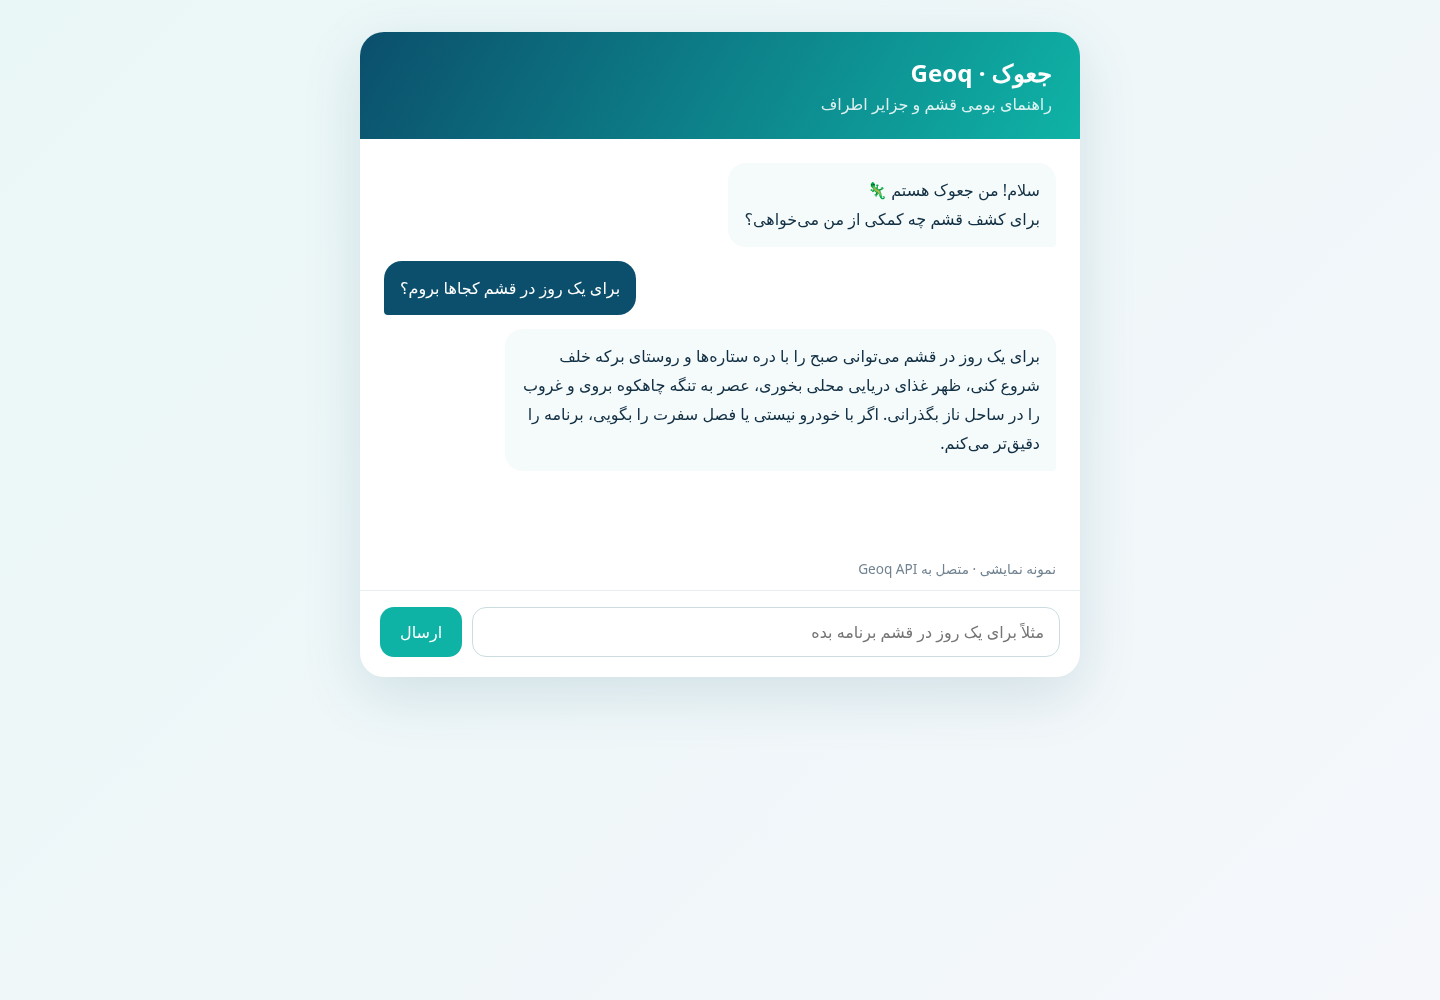
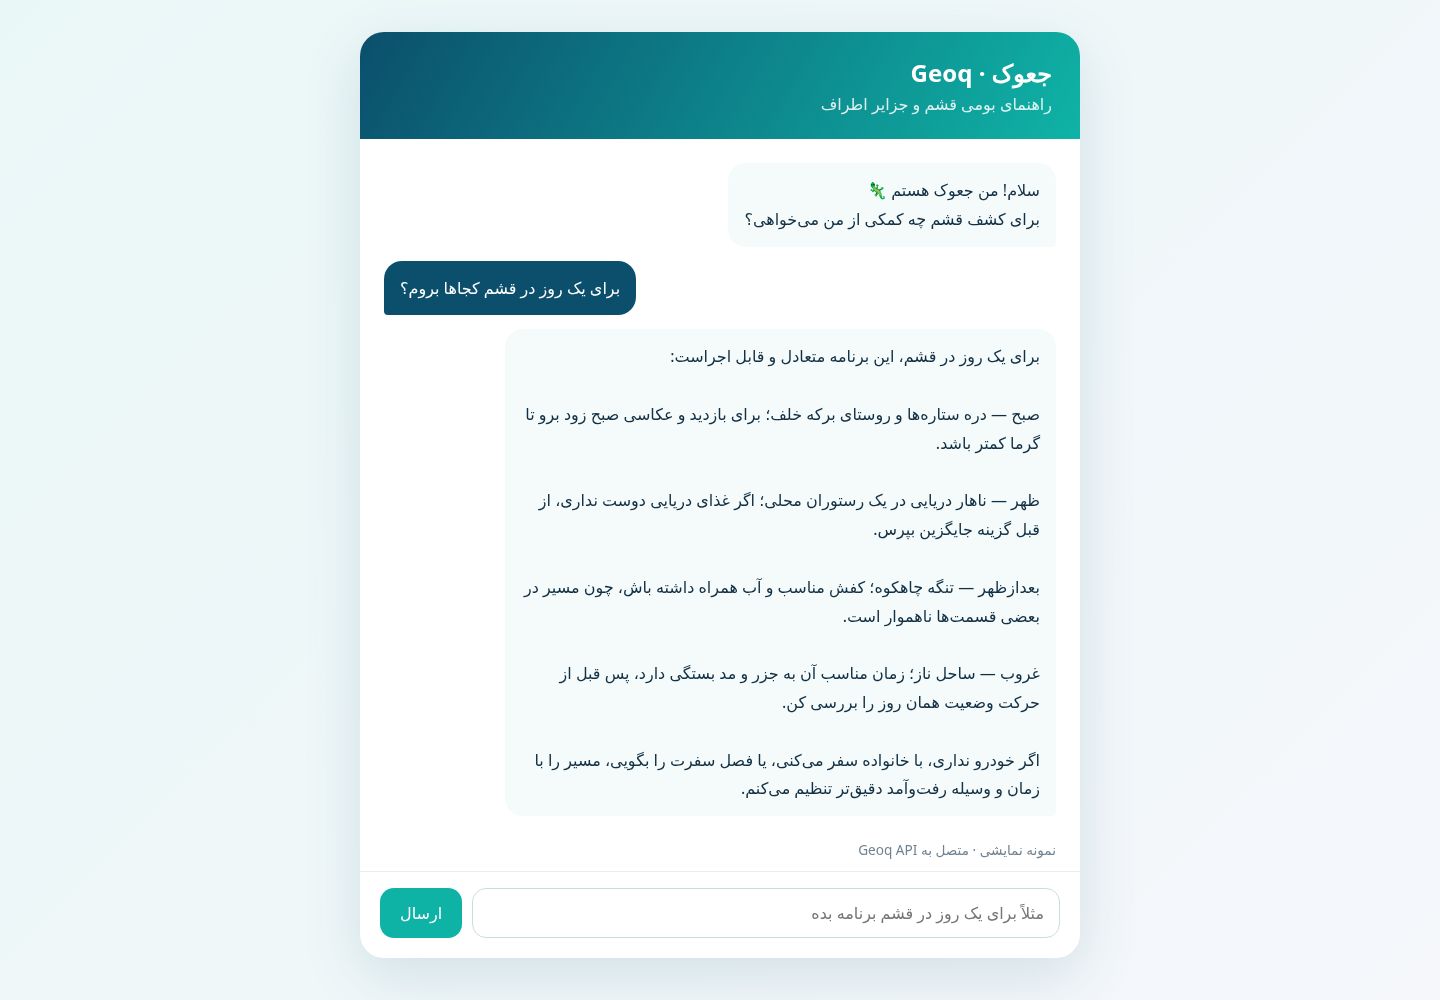
docs: clarify local advantage and external Open WebUI frontend

diff --git a/examples/chat.html b/examples/chat.html
@@ -48,7 +48,7 @@
     if (new URLSearchParams(location.search).has('demo')) {
       history.push(
         { role: 'user', content: 'برای یک روز در قشم کجاها بروم؟' },
-        { role: 'assistant', content: 'برای یک روز در قشم میتوانی صبح را با دره ستارهها و روستای برکه خلف شروع کنی، ظهر غذای دریایی محلی بخوری، عصر به تنگه چاهکوه بروی و غروب را در ساحل ناز بگذرانی. اگر با خودرو نیستی یا فصل سفرت را بگویی، برنامه را دقیقتر میکنم.' }
+        { role: 'assistant', content: 'برای یک روز در قشم، این برنامه متعادل و قابل اجراست:\n\nصبح — دره ستارهها و روستای برکه خلف؛ برای بازدید و عکاسی صبح زود برو تا گرما کمتر باشد.\n\nظهر — ناهار دریایی در یک رستوران محلی؛ اگر غذای دریایی دوست نداری، از قبل گزینه جایگزین بپرس.\n\nبعدازظهر — تنگه چاهکوه؛ کفش مناسب و آب همراه داشته باش، چون مسیر در بعضی قسمتها ناهموار است.\n\nغروب — ساحل ناز؛ زمان مناسب آن به جزر و مد بستگی دارد، پس قبل از حرکت وضعیت همان روز را بررسی کن.\n\nاگر خودرو نداری، با خانواده سفر میکنی، یا فصل سفرت را بگویی، مسیر را با زمان و وسیله رفتوآمد دقیقتر تنظیم میکنم.' }
       );
       messages.insertAdjacentHTML('beforeend', '<div class="bubble user"></div><div class="bubble assistant"></div>');
       messages.children[messages.children.length - 2].textContent = history[0].content;

diff --git a/tests/test_public_contract.py b/tests/test_public_contract.py
@@ -55,10 +55,11 @@ def test_working_examples_target_the_real_api():
     assert '"stream": False' in client
 
 
-def test_open_webui_integration_pins_the_geoq_branch_and_backend_url():
-    gitmodules = (ROOT / ".gitmodules").read_text(encoding="utf-8")
+def test_open_webui_integration_uses_external_geoq_branch_and_backend_url():
     compose = (ROOT / "docker-compose.open-webui.yml").read_text(encoding="utf-8")
     docs = (ROOT / "docs" / "OPEN-WEBUI.md").read_text(encoding="utf-8")
-    assert "branch = geoq" in gitmodules
+    assert not (ROOT / ".gitmodules").exists()
+    assert "open-webui.git" in docs
+    assert "OPEN_WEBUI_DIR" in compose
     assert "OPENAI_API_BASE_URLS: http://geoq:8001/v1" in compose
     assert "docker-compose.open-webui.yml" in docs

diff --git a/README.md b/README.md
@@ -6,7 +6,7 @@
 [![License: MIT](https://img.shields.io/badge/License-MIT-0b4f6c.svg)](LICENSE)
 [![Good first issues](https://img.shields.io/github/issues/fredrikblau/geoq/good%20first%20issue?label=good%20first%20issues)](https://github.com/fredrikblau/geoq/issues?q=is%3Aissue+is%3Aopen+label%3A%22good%20first%20issue%22)
 
-![Geoq browser chat](docs/assets/geoq-chat-demo.png)
+![Geoq reference chat client](docs/assets/geoq-chat-demo.png)
 
 Geoq is an open-source local chat assistant for Qeshm Island and the surrounding islands of Hormoz, Hengam, Lark, and Naz. It helps residents and visitors find useful local knowledge in Persian: places to visit, food, accommodation, transport, services, shopping, culture, and practical travel advice.
 
@@ -15,6 +15,20 @@ This project exists because local knowledge should be easy to access, easy to im
 ## Why Geoq?
 
 Generic travel assistants often miss the details that matter on an island: seasonal routes, local names, nearby alternatives, Persian context, and the difference between a recommendation and an official fact. Geoq combines a local knowledge base with an AI conversation layer so contributors can improve the answers directly.
+
+## Geoq versus a general assistant
+
+ChatGPT and similar general-purpose assistants are excellent at broad knowledge, writing, coding, and brainstorming. Geoq has a narrower purpose and a local advantage:
+
+| | General assistant | Geoq |
+| --- | --- | --- |
+| Scope | The whole world | Qeshm, Hormoz, Hengam, Lark, and Naz Island |
+| Local context | Often generic or incomplete | Persian names, island routes, local services, and community context |
+| Knowledge source | Broad model knowledge and connected tools | A reviewable local knowledge base collected with local guides, plus fresh lookup when needed |
+| Hard-to-find facts | May not know information that is never published online | Can preserve useful local knowledge that is absent from public websites |
+| Best use | General questions and open-ended work | Practical, detailed decisions while visiting or living in the islands |
+
+Geoq is not trying to replace general AI. It turns local expertise into a shared, maintainable resource and gives that expertise a conversational interface. Local knowledge can still change or be wrong, so safety-sensitive and time-sensitive details should be verified.
 
 ## Features
 
@@ -47,7 +61,7 @@ The intended experience is a short, practical conversation—not a wall of gener
 اگر با خودرو نیستی یا فصل سفرت را بگویی، برنامه را دقیقتر و عملیتر میکنم.
 ```
 
-The production-oriented frontend is the customized [Open WebUI `geoq` branch](https://github.com/fredrikblau/open-webui/tree/geoq), linked here as a pinned submodule. The repository also includes [`t.html`](t.html), a small standalone RTL Persian landing/showcase card. See [docs/OPEN-WEBUI.md](docs/OPEN-WEBUI.md) for the full connection setup and [docs/SHOWCASE.md](docs/SHOWCASE.md) for API examples.
+The production-oriented frontend is the customized [Open WebUI `geoq` branch](https://github.com/fredrikblau/open-webui/tree/geoq), kept as a separate repository. The repository also includes [`t.html`](t.html), a small standalone RTL Persian landing/showcase card. See [docs/OPEN-WEBUI.md](docs/OPEN-WEBUI.md) for the full connection setup and [docs/SHOWCASE.md](docs/SHOWCASE.md) for API examples.
 
 For a working browser client, open [`examples/chat.html`](examples/chat.html) while the API is running. A dependency-free command-line client is available at [`examples/chat.py`](examples/chat.py).
 
@@ -116,7 +130,8 @@ docker compose up --build
 To run Geoq together with the customized Open WebUI frontend:
 
 ```bash
-git submodule update --init --recursive
+git clone --branch geoq --depth 1 https://github.com/fredrikblau/open-webui.git ../open-webui
+OPEN_WEBUI_DIR=../open-webui \
 docker compose -f docker-compose.yml -f docker-compose.open-webui.yml up --build
 ```
 
@@ -130,7 +145,7 @@ Copy `.env.example` to `.env`. `GEMINI_API_KEY` is required for AI responses. `R
 
 ```text
 api/                         canonical FastAPI + LangGraph implementation
-frontend/open-webui          pinned customized Open WebUI frontend (submodule)
+Open WebUI (external)         customized frontend in `fredrikblau/open-webui:geoq`
 docs/                        public architecture and showcase documentation
 data/knowledge/              reviewed local tourism seed data
 embed_qa.py                 build the local Chroma index

diff --git a/docs/OPEN-WEBUI.md b/docs/OPEN-WEBUI.md
@@ -1,16 +1,16 @@
 # Open WebUI integration
 
-Geoq’s intended full frontend is the customized [`geoq` branch of the Open WebUI fork](https://github.com/fredrikblau/open-webui/tree/geoq). It contains the Geoq branding and Persian-facing UI changes. Geoq links to that exact branch as a git submodule at `frontend/open-webui`.
+Geoq’s intended full frontend is the customized [`geoq` branch of the Open WebUI fork](https://github.com/fredrikblau/open-webui/tree/geoq). It contains the Geoq branding and Persian-facing UI changes. It remains a separate repository so Open WebUI’s upstream history and frontend development stay independent from Geoq’s API and local knowledge.
 
 ## Fastest setup with Docker Compose
 
-From the Geoq repository root:
+Clone both repositories side by side, then run this from the Geoq repository root:
 
 ```bash
-git submodule update --init --recursive
+git clone --branch geoq --depth 1 https://github.com/fredrikblau/open-webui.git ../open-webui
 cp .env.example .env
 # Add GEMINI_API_KEY to .env
-docker compose -f docker-compose.yml -f docker-compose.open-webui.yml up --build
+OPEN_WEBUI_DIR=../open-webui docker compose -f docker-compose.yml -f docker-compose.open-webui.yml up --build
 ```
 
 Then open [http://localhost:3000](http://localhost:3000). Open WebUI talks to the Geoq API through the Compose service name `geoq` at `http://geoq:8001/v1`.
@@ -46,20 +46,18 @@ In the Open WebUI admin panel, the same connection can be added under **Settings
 
 ## Development workflow
 
-The submodule is pinned by Geoq’s Git tree and tracks the `geoq` branch in `.gitmodules`:
+The frontend is intentionally external to this repository. To work on the customized branch:
 
 ```bash
-git submodule update --init --recursive
-cd frontend/open-webui
+git clone --branch geoq https://github.com/fredrikblau/open-webui.git ../open-webui
+cd ../open-webui
 git checkout geoq
 ```
 
-To update the pinned frontend intentionally, pull the latest `geoq` branch, return to the Geoq root, and commit the changed submodule pointer:
+To update the external frontend locally, pull the latest `geoq` branch:
 
 ```bash
-git -C frontend/open-webui pull origin geoq
-git add frontend/open-webui
-git commit -m "chore: update Open WebUI geoq frontend"
+git -C ../open-webui pull origin geoq
 ```
 
 Keep frontend-specific changes in the Open WebUI fork. Keep Geoq API, knowledge, and integration documentation in this repository.

diff --git a/docs/SHOWCASE.md b/docs/SHOWCASE.md
@@ -67,6 +67,18 @@ Set `"stream": true` to receive Server-Sent Events. Each event contains a small 
 | «دره ستارهها کجاست؟» | Prefer local retrieval and Persian context | `data/knowledge/qa_qeshm.json` |
 | «من غذای دریایی دوست دارم» then «کجا بروم؟» | Use conversation memory to personalize | Memory and fact extraction |
 
+## What a detailed answer looks like
+
+For a question such as «برای یک روز در قشم برنامه سفر بده», Geoq is intended to return an actionable plan rather than a generic list:
+
+1. **Morning:** start with a nearby natural attraction such as the Stars Valley area and consider heat and travel time.
+2. **Lunch:** suggest a local food direction while asking about dietary preferences and budget.
+3. **Afternoon:** include practical preparation for places such as Chahkooh Canyon—water, shoes, and route conditions.
+4. **Sunset:** suggest a tide-dependent location such as Naz Island and remind the visitor to check that day’s tide and access conditions.
+5. **Follow-up:** ask whether the visitor has a car, how many people are traveling, and which season they are visiting in order to refine the route.
+
+The exact recommendation should come from current local data and the connected lookup path. This example describes the intended answer quality and safety behavior; it is not a guarantee that every place is open or accessible.
+
 ## Visual showcase
 
 ![Geoq Persian showcase](assets/geoq-showcase.png)
